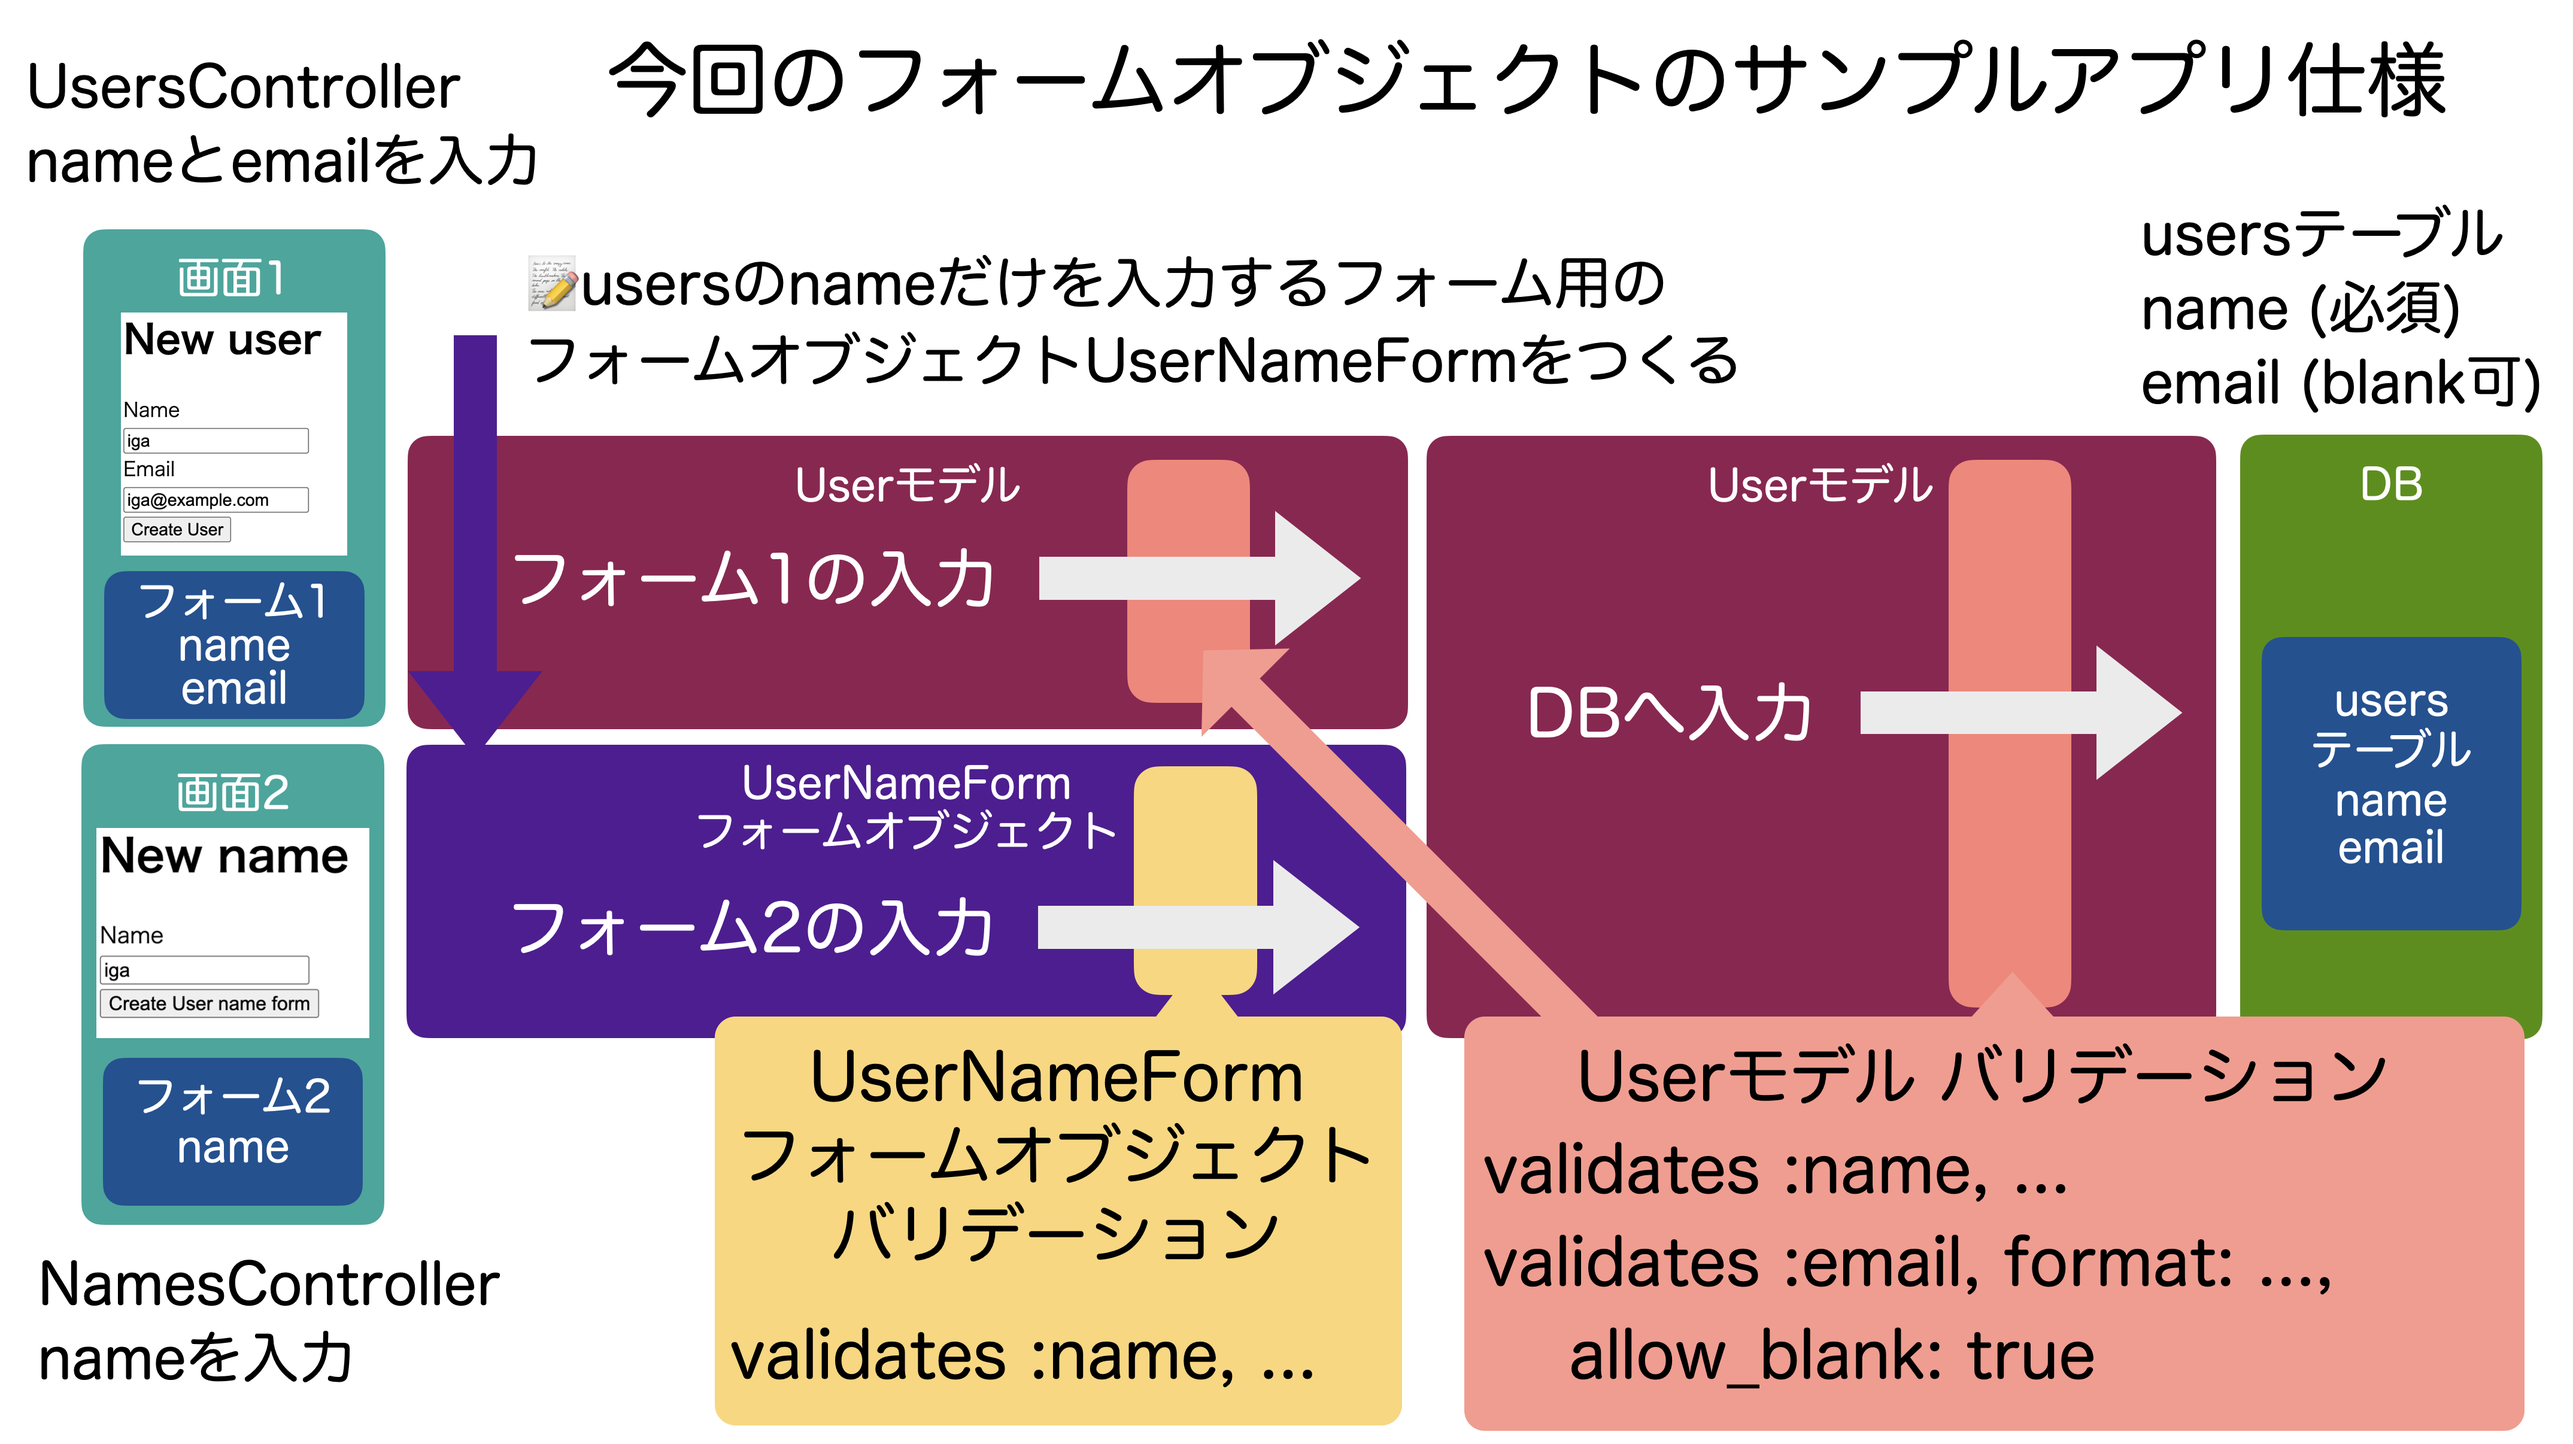
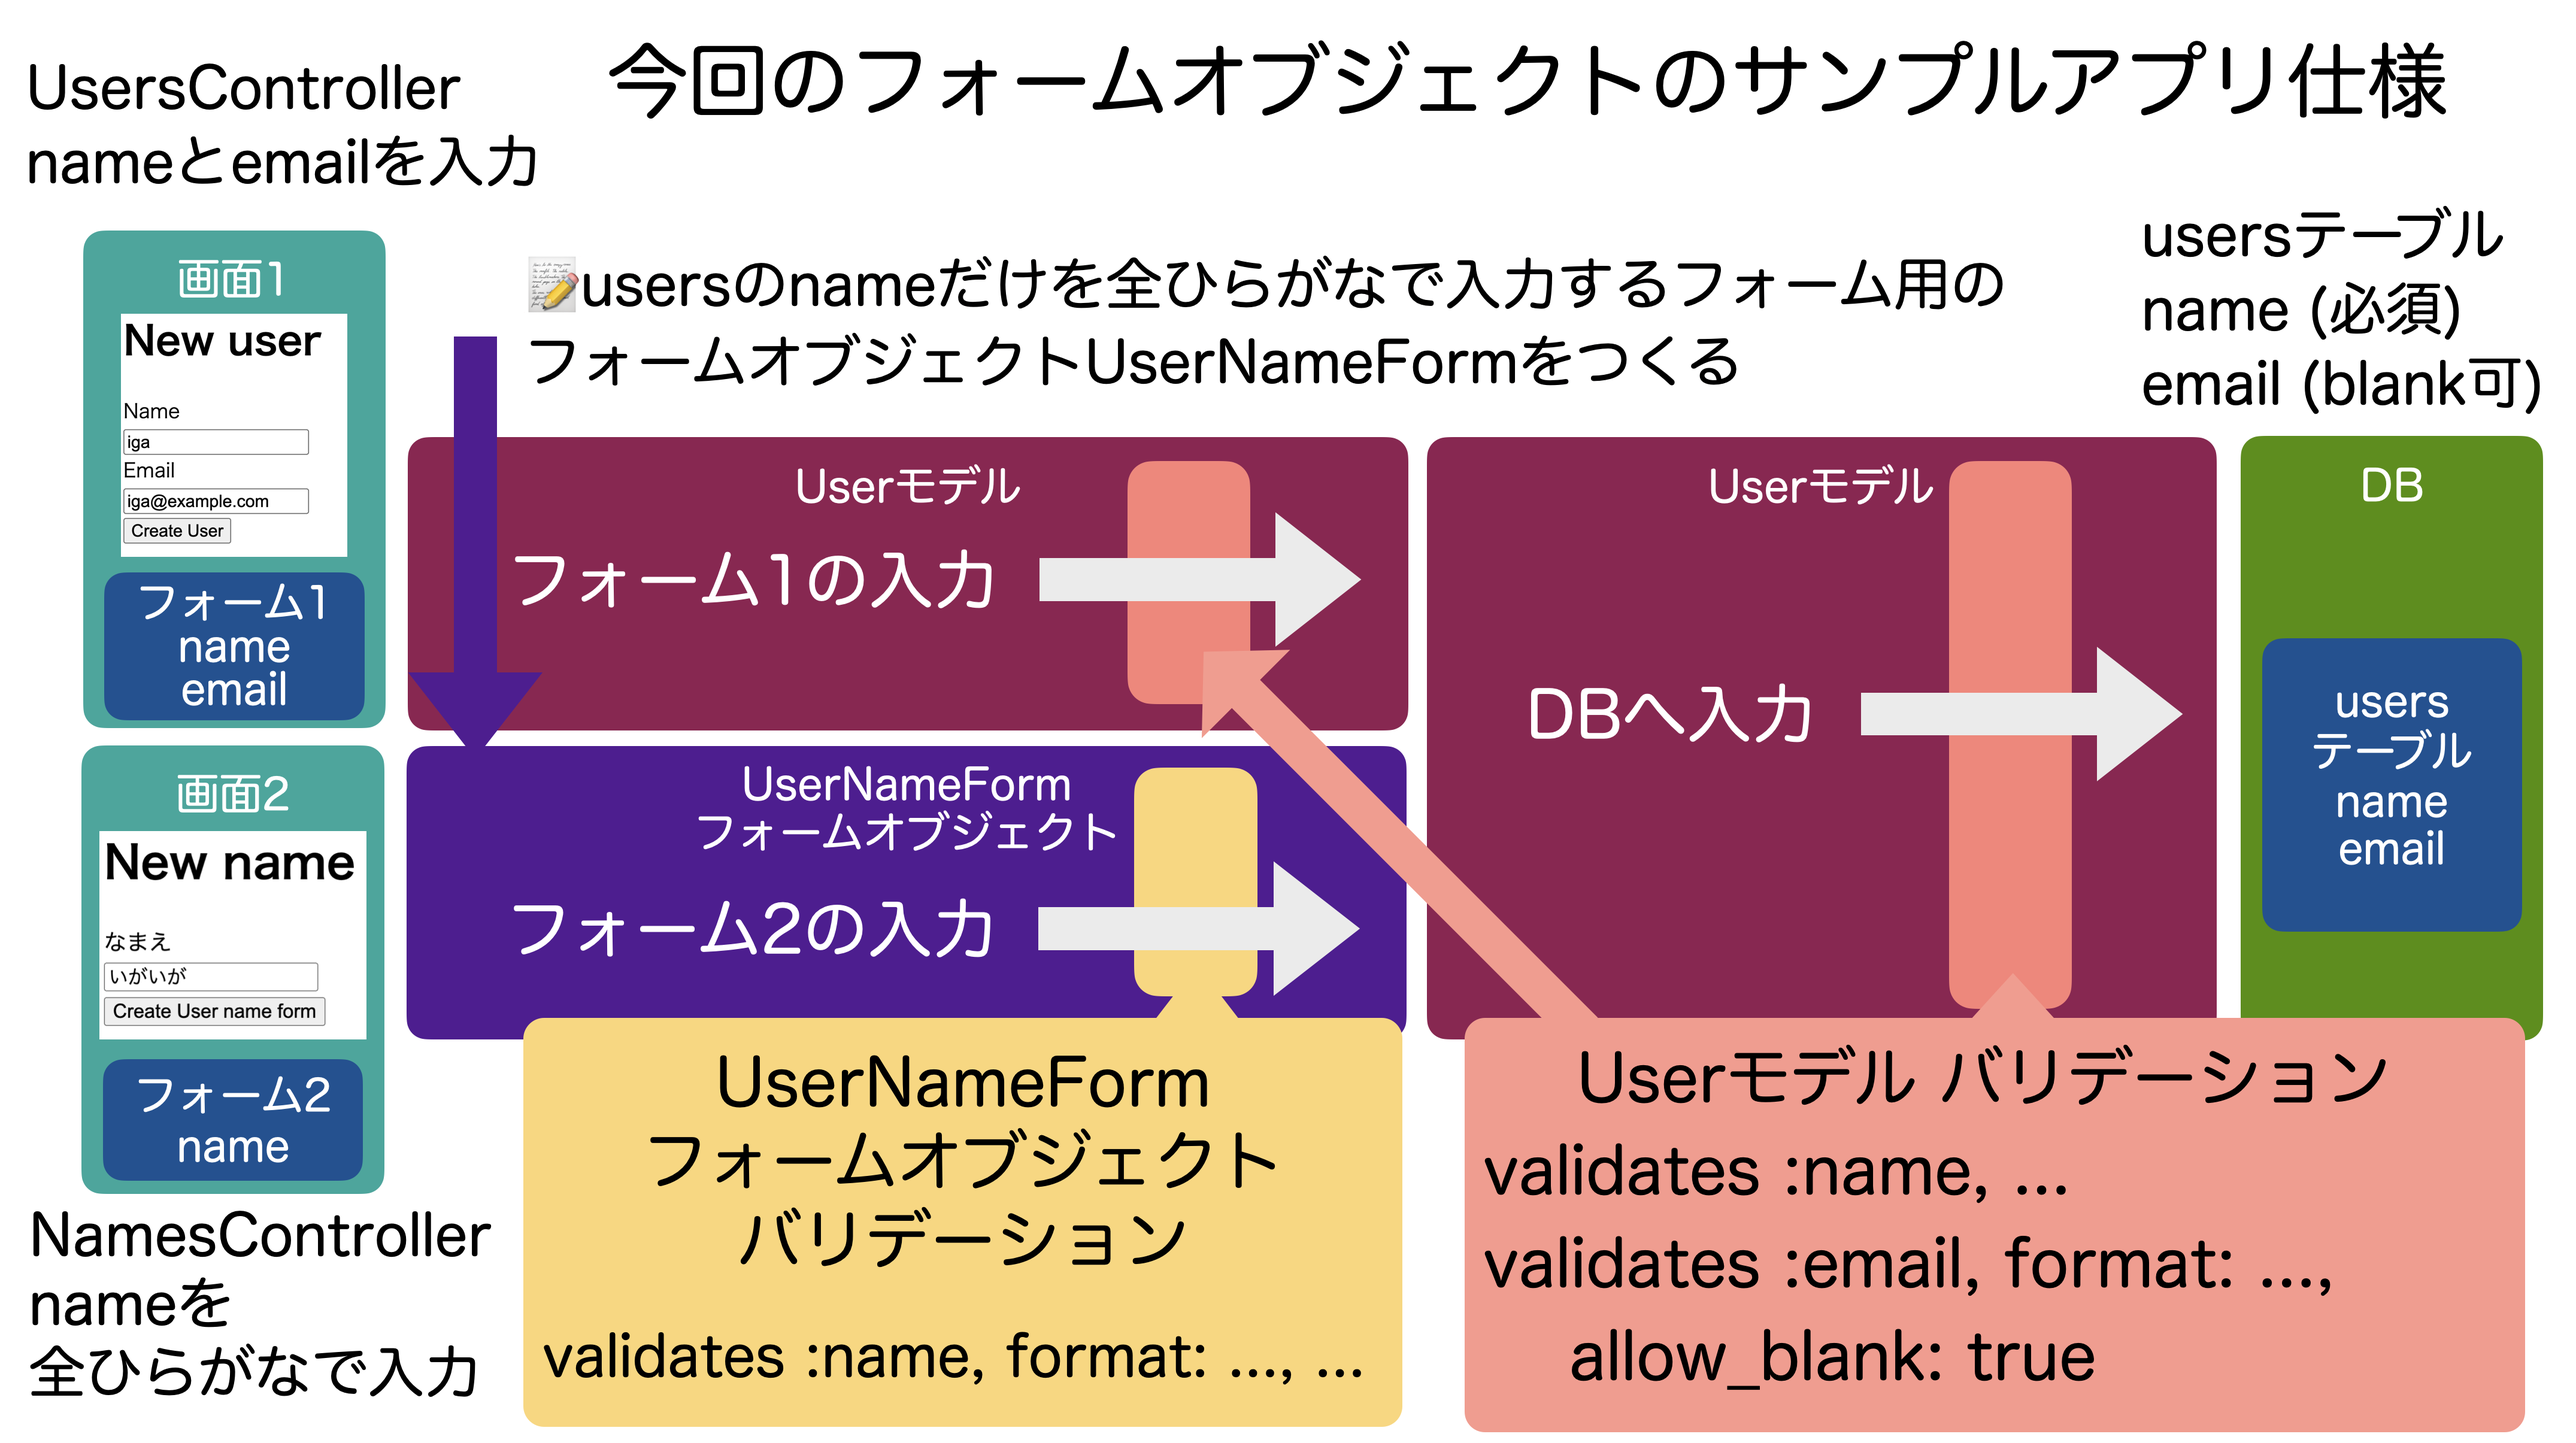
Brush up the form object page

diff --git a/books/rails-practice-note/ar_form_object.md b/books/rails-practice-note/ar_form_object.md
@@ -6,17 +6,16 @@ title: "[ActiveRecord] フォームオブジェクト"
 
 ## フォームオブジェクトとは
 
-フォームオブジェクトはフォームからの入力を検証したり、form_withメソッドにモデルのように渡すことができるオブジェクトです。ActiveRecordを継承しないのでモデルではないです。
+フォームオブジェクトはフォームからの入力を検証したり、form_withメソッドにモデルのように渡すことができるオブジェクトです。
 
 ## フォームオブジェクトのつくりかた
 
-ActiveModel::Model, ActiveModel::Attributes をつかうとRailsの提供部品でフォームオブジェクトがつくれます。
+ActiveModel::API, ActiveModel::Attributes をつかうとRailsが提供する道具でフォームオブジェクトをつくれます。ActiveRecordを継承せずにつくるのが一般的です。
 
 - ActiveModel::Attributes
   - 型(cast type)を指定したattributesをつくれる
-- ActiveModel::Model
-  - Modelのように振る舞える
-  - form_withに渡せたり、validationできたり、newメソッドでattributesと一緒に初期化できたり、などなど
+- ActiveModel::API
+  - form_withに渡せたり、validationできたり、newメソッドでattributesと一緒に初期化できる機能などを提供
 
 ここでつくるサンプルコードは以下からダウンロードできます。
 
@@ -36,9 +35,9 @@ class FooFormObject
 end
 ```
 
-## ActiveModel::Modelモジュール
+## ActiveModel::APIモジュール
 
-モデルのように振る舞う機能各種をつかえるようになります。
+モデルのように振る舞う機能各種をつかえるようになります。ActiveModel::APIはRails7.0からつかえるようになりました。それより前のバージョンでは、ActiveModel::Modelをつかうことで同様の機能をつかうことができます。
 
 - バリデーションを設定して実行できる機能
 - form_withとやりとりする機能
@@ -47,7 +46,7 @@ end
 
 ```ruby
 class FooFormObject
-  include ActiveModel::Model
+  include ActiveModel::API
   include ActiveModel::Attributes
 
   attribute :name, :string
@@ -63,7 +62,7 @@ class FooFormObject
 
 ## 今回のフォームオブジェクトのサンプルアプリ仕様
 
-Userモデルのattributesである name, emailを入力するフォームがあったところに、新しくnameだけでusersテーブルに保存できるフォームが追加されたときの仕様を想定しています。
+Userモデルのattributesである name, emailを入力するフォームが既にあるところに、新しくnameをひらがなでusersテーブルに保存するフォームが追加されたときを想定しています。nameをひらがなでusersテーブルに保存するフォーム用のフォームオブジェクトとしてUserNameFormをつくっていきます。
 
 ![](/images/rails_practice_note/ar_form_object/form_object_app_specs.png)
 
@@ -102,7 +101,7 @@ app/forms/user_name_form.rb
 
 ```ruby
 class UserNameForm
-  include ActiveModel::Model
+  include ActiveModel::API
   include ActiveModel::Attributes
   attribute :name, :string
 
@@ -315,7 +314,7 @@ app/views/names/_form.html.erb
 
 ```ruby
 class UserNameForm
-  include ActiveModel::Model
+  include ActiveModel::API
   # バリデーション機能、form_withに渡せる機能、
   # new(name: "xxx", ...)のようにattributesとあわせて初期化する機能などを足す
   include ActiveModel::Attributes # 型を持つattributesをかんたんに定義できるようにする
@@ -373,7 +372,7 @@ end
 - サンプルコード: https://github.com/igaiga/rails_form_object_sample_app
 
 - Rails API
-  - [ActiveModel::Model](https://api.rubyonrails.org/classes/ActiveModel/Model.html)
-  - [ActiveModel::Attributes](https://api.rubyonrails.org/classes/ActiveModel/Attributes.html)
   - [ActiveModel::API](https://api.rubyonrails.org/classes/ActiveModel/API.html)
+  - [ActiveModel::Attributes](https://api.rubyonrails.org/classes/ActiveModel/Attributes.html)
+  - [ActiveModel::Model](https://api.rubyonrails.org/classes/ActiveModel/Model.html)
 - [パーフェクトRails増補改訂版](https://gihyo.jp/book/2020/978-4-297-11462-6) 12-3 フォームオブジェクト節
